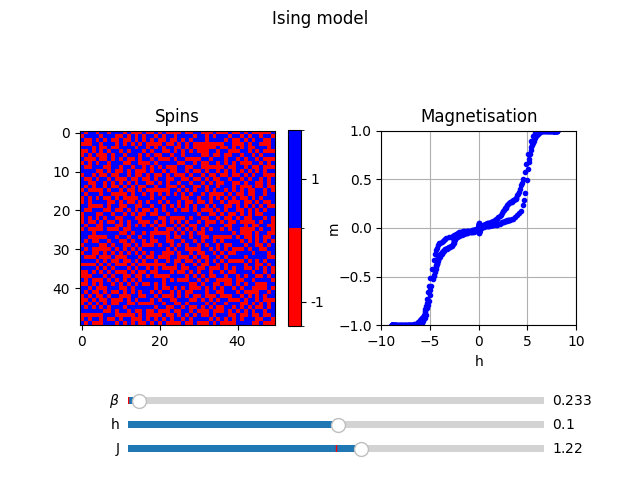
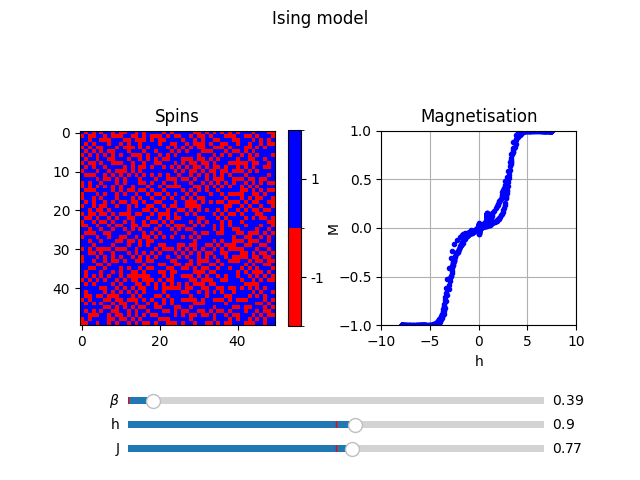
Final documentation and presentation touches

diff --git a/main.py b/main.py
@@ -31,7 +31,7 @@ def init_fig():
     ax[1].set_xlim(- HMAX, HMAX)
     ax[1].set_ylim(- 1, 1)
     ax[1].set_xlabel('h')
-    ax[1].set_ylabel('m', labelpad=-2)
+    ax[1].set_ylabel('M', labelpad=-2)
     # Define the axes for the sliders [left, bottom, width, height]  
     ax_beta_slider = plt.axes([.2, .15, .65, .03])
     ax_h_slider = plt.axes([.2, .10, .65, .03])
@@ -42,7 +42,7 @@ def init_fig():
     J = Slider(ax_J_slider, 'J', - JMAX, JMAX, valinit=0)
     return fig, ax, h, beta, J
 
-def animate(N, fig, ax, spins, h, beta, J):
+def animate(n, fig, ax, spins, h, beta, J):
     # Spin colourmap
     cmap = mcolors.ListedColormap(['red', 'blue'])
     bounds = [-1, 1, 2]
@@ -51,40 +51,40 @@ def animate(N, fig, ax, spins, h, beta, J):
     # Colourbar [left, bottom, width, height] 
     cb_ax = fig.add_axes([.45,.32,.02,.41])
     cbar = plt.colorbar(im, cax=cb_ax)
-    cbar.set_ticks([-0.5, 1.5])
+    cbar.set_ticks([0, 1.5])
     cbar.set_ticklabels([-1, 1])
     # Magnetisation curve
     line, = ax[1].plot([], [], 'b.')
-    data = [[h.val], [np.sum(spins) / N**2]]
+    data = [[h.val], [np.sum(spins) / n**2]]
     line.set_data(data)
     plt.pause(0.05)
     # Simulation/plot loop
-    spins, E = ising.metropolis(N, spins, beta.val, J.val, h.val, ising.energy(spins, J.val, h.val))
+    spins, E = ising.metropolis(n, spins, beta.val, J.val, h.val, ising.energy(spins, J.val, h.val))
     im.remove()
     im = ax[0].imshow(spins, cmap=cmap, norm=norm)
-    data = np.hstack((data, [[h.val], [np.sum(spins) / N**2]]))
+    data = np.hstack((data, [[h.val], [np.sum(spins) / n**2]]))
     line.set_data(data)
     plt.pause(0.05)
     while plt.fignum_exists(fig.number):
-        spins, E = ising.metropolis(N, spins, beta.val, J.val, h.val, E)
+        spins, E = ising.metropolis(n, spins, beta.val, J.val, h.val, E)
         im.remove()
         im = ax[0].imshow(spins, cmap=cmap, norm=norm)
-        data = np.hstack((data, [[h.val], [np.sum(spins) / N**2]]))
+        data = np.hstack((data, [[h.val], [np.sum(spins) / n**2]]))
         line.set_data(data)
         plt.pause(0.05)
 
 if __name__ == '__main__':
-    N = request(int, 'Input the side length N of the spin lattice, which is NxN: ')
+    n = request(int, 'Input the side length n of the spin lattice, which is nxn: ')
     alpha = request(float, 'Input the initial fraction of up spins: ')
 
     # Initial spin grid
-    spins = np.zeros((N,N))
-    idx = np.random.random((N,N))
+    spins = np.zeros((n,n))
+    idx = np.random.random((n,n))
     spins[idx <= alpha] = 1
     spins[idx > alpha] = -1
 
     # Simulation
     fig, ax, h, beta, J = init_fig()
-    animate(N, fig, ax, spins, h, beta, J)
+    animate(n, fig, ax, spins, h, beta, J)
 
     plt.show()

diff --git a/ising.py b/ising.py
@@ -14,10 +14,10 @@ def energy(spins, J, h):
 
 # A few steps of the Metropolis algorithm, accelerated with Numba
 @numba.njit(fastmath=True)
-def metropolis(N, spins, beta, J, h, E, iters=1_000):
+def metropolis(n, spins, beta, J, h, E, iters=1_000):
     for _ in range(iters):
         # Random point
-        x, y = np.random.randint(0, N, size=2) 
+        x, y = np.random.randint(0, n, size=2) 
         # Proposed spin flip
         spin_i = spins[x, y]
         spin_f = - spin_i
@@ -26,13 +26,13 @@ def metropolis(N, spins, beta, J, h, E, iters=1_000):
         if x > 0:
             spinspin_i -= spin_i * spins[x - 1, y]
             spinspin_f -= spin_f * spins[x - 1, y]
-        if x < N-1:
+        if x < n-1:
             spinspin_i -= spin_i * spins[x + 1, y]
             spinspin_f -= spin_f * spins[x + 1, y]
         if y > 0:
             spinspin_i -= spin_i * spins[x, y - 1]
             spinspin_f -= spin_f * spins[x, y - 1]
-        if y < N-1:
+        if y < n-1:
             spinspin_i -= spin_i * spins[x, y + 1]
             spinspin_f -= spin_f * spins[x, y + 1]
         dE = - J * (spinspin_f - spinspin_i) - h * (spin_f - spin_i)

diff --git a/README.md b/README.md
@@ -9,7 +9,39 @@ Numerical simulation of the most well known ferromagnet toy model. This programm
 1. Clone the repository and open its folder from the CLI.
 1. Run the command `pip install -r requirements.txt` to install dependencies.
 Run the command `python main.py` (or `python3 main.py` if both Python 2 and Python 3 are installed on your computer).
-You will be prompted to input your desired lattice size and initial fraction of spins pointing up. Press enter after answering each prompt.
+You will be prompted to input your desired lattice size and initial fraction of spins pointing up. Press enter after answering each prompt. A lattice size of around $50\times50$ points is recommended.
 1. The programme will open a Matplotlib window with sliders to modify the temperature ($1/\beta$), magnetic field ($h$) and spin coupling ($J$).
 
 ### Theory
+
+The Ising model consists of a lattice of $N$ atoms and seeks to explain their magnetic properties. The Hamiltonian of a single spin $1/2$ particle interacting with a magnetic field along the $z$ direction is:
+
+$$
+H=-\frac{g}{\hbar}\mu_B S_z B=-\frac{g}{2}\mu_B \sigma_zB
+$$
+
+where $g$ is the spin g-factor, $\mu_B$ is the Bohr magneton and $S_z$, $\sigma_z$ are the spin operator and Pauli matrix along the $z$ direction, respectively. We may encapsulate all prefactors into some $h=\frac{g}{2}\mu_BB$ with units of energy, and write
+
+$$
+H = -h\sigma
+$$
+
+noting that $\sigma$ has eigenvalues $\pm1$. For a system of non interacting particles, the Hamiltonian would be
+
+$$
+H = -\sum\limits_i h_i\sigma_i
+$$
+
+We may however heuristically introduce an interaction term that tends to align (or antialign) spins of neighbouring particles. We introduce it as follows, where $<ij>$ indicates the indices of nearest neighbours
+
+$$
+H=-\left(\sum\limits_{<ij>}J_{ij}\sigma_i\sigma_j+ \sum\limits_i h_i\sigma_i\right)
+$$
+
+If we consider an isotropic system, we obtain the following:
+
+$$
+H=-\left(J\sum\limits_{<ij>}\sigma_i\sigma_j+ h\sum\limits_i\sigma_i\right)
+$$
+
+Through multiple iterations, this programme calculates the system's evolution via the Metropolis algorithm, of which [Wikipedia](https://en.wikipedia.org/wiki/Ising_model#Metropolis_algorithm) gives a brief outline. The key consideration is that our system follows a Boltzmann distribution $\rho=\frac{1}{Z}e^{-\beta H}$. One can therefore calculate the total magnetic moment $m=-H/B$ as the system evolves (here we simply take $m=\sum\limits_i\sigma_i$). It is typical to express the total magnetic moment in terms of magnetisation per atom $M=m/N$, an intensive measurement, so this is what is presented here.
